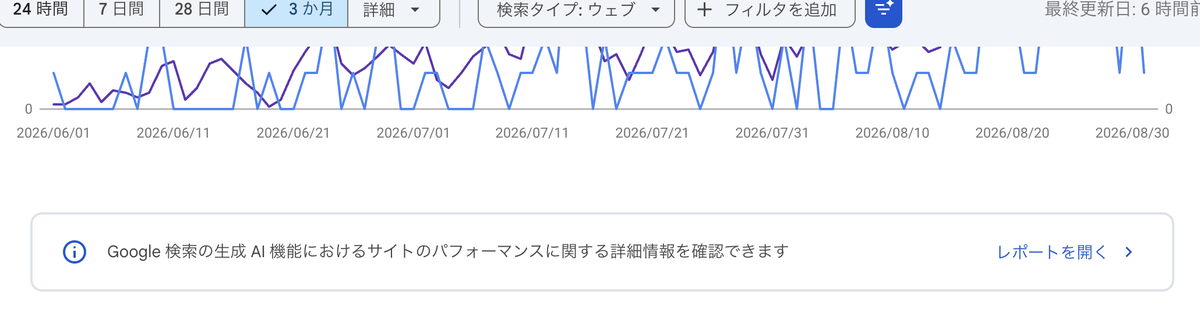
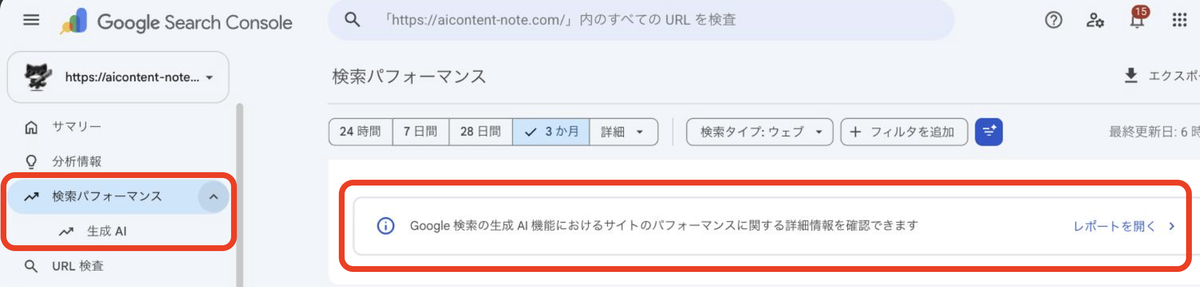
feat: 画像にキャプションを追加＋1枚目を撮り直し
1枚目：グラフを外し、左メニューの「生成 AI」とグラフ下のバナーの
両方が入る画面に撮り直した（入口が2つあることを1枚で示す）。赤枠はユーザーが付与。

2枚とも figcaption を追加。本文中に画像を置くと何の画面か伝わらないため。
md-to-wp.py で ![alt](url "caption") に対応し、キャプションなしは警告を出す。

不具合修正:
- media_id がスラッグ一致で引けなかった（同名再アップでファイル名とスラッグがずれる）
  → source_url の完全一致で引くように変更
- article-self-check.py が画像のalt/キャプションを重複・類似度・一文長で誤検知
  → 画像行を対象外にした。地の文の検知が生きていることは検証済み
- 字数からaltを除外（キャプションは読者が読むので残す）

diff --git a/operations/md-to-wp.py b/operations/md-to-wp.py
@@ -186,33 +186,48 @@ def post_id(slug):
 
 
 def media_id(url):
-    """公開APIで画像URLからメディアIDを引く（wp:imageブロックに必要）。"""
-    slug = url.rsplit("/", 1)[-1].rsplit(".", 1)[0]
-    api = "%s/wp-json/wp/v2/media?slug=%s&_fields=id,source_url" % (SITE, slug)
-    try:
-        with urllib.request.urlopen(api, timeout=10) as r:
-            data = json.load(r)
+    """公開APIで画像URLからメディアIDを引く（wp:imageブロックに必要）。
+
+    ⚠ スラッグはファイル名と一致しない。同名を再アップすると
+    ファイルは `img_0065_01-1.png`・スラッグは `img_0065_01-2` のようにずれる
+    （2026-09-04に実際にずれた）。**必ずsource_urlの完全一致で確定する。**
+    """
+    stem = url.rsplit("/", 1)[-1].rsplit(".", 1)[0]
+    for q in ("slug=%s" % stem, "search=%s" % stem.split("-")[0]):
+        api = "%s/wp-json/wp/v2/media?%s&per_page=100&_fields=id,source_url" % (SITE, q)
+        try:
+            with urllib.request.urlopen(api, timeout=10) as r:
+                data = json.load(r)
+        except Exception:
+            continue
         for m in data:
             if m.get("source_url") == url:
                 return m["id"]
-        return data[0]["id"] if data else None
-    except Exception:
-        return None
+    return None
 
 
-def image_block(alt, url):
-    """`![alt](url)` を SWELL/WPの画像ブロックにする（2026-09-03新設）。
+def image_block(alt, url, caption=None):
+    """`![alt](url "キャプション")` を SWELL/WPの画像ブロックにする（2026-09-03新設）。
     IDが引けない場合は0を入れず警告する。0のままだとWP側で画像が孤立する。
+    キャプションは2026-09-04追加。**画像は必ずキャプションを付ける**——
+    本文中に画像を置くと、何の画面なのかが読者に伝わらない（2026-09-04ユーザー指摘）。
     """
     mid = media_id(url)
     if mid is None:
         print("  ⚠ メディアIDを取得できなかった: %s（先にWPへアップする）" % url, file=sys.stderr)
         return None
+    if not caption:
+        print("  ⚠ 画像にキャプションがない: %s（何の画面か分からない）" % url, file=sys.stderr)
+    cap = (
+        '<figcaption class="wp-element-caption">%s</figcaption>' % inline(caption)
+        if caption
+        else ""
+    )
     return (
         '<!-- wp:image {"id":%d,"sizeSlug":"large","linkDestination":"none"} -->\n'
         '<figure class="wp-block-image size-large">'
-        '<img src="%s" alt="%s" class="wp-image-%d"/></figure>\n'
-        '<!-- /wp:image -->' % (mid, url, alt, mid)
+        '<img src="%s" alt="%s" class="wp-image-%d"/>%s</figure>\n'
+        '<!-- /wp:image -->' % (mid, url, alt, mid, cap)
     )
 
 
@@ -328,9 +343,11 @@ def convert(md):
             continue
 
         # 画像（![alt](url) 単独行 → wp:image）2026-09-03新設
-        mimg = re.match(r"^!\[([^\]]*)\]\((https?://[^)]+)\)$", c.strip())
+        mimg = re.match(
+            r'^!\[([^\]]*)\]\((https?://[^)\s]+)(?:\s+"([^"]*)")?\)$', c.strip()
+        )
         if mimg:
-            blk = image_block(mimg.group(1), mimg.group(2))
+            blk = image_block(mimg.group(1), mimg.group(2), mimg.group(3))
             if blk:
                 out.append(blk)
             continue

diff --git a/operations/article-self-check.py b/operations/article-self-check.py
@@ -470,7 +470,9 @@ def main(path):
 
     # --- 重複チェック（feedback_no_repetition.mdより統合） ---
     print("\n--- 重複チェック ---")
-    quotes = re.findall(r"「[^」]{2,20}」", body)
+    # 画像行のaltとキャプションは、本文と同じ画面名を指すので「」が重なる。除外する。
+    body_no_img = re.sub(r"^!\[[^\]]*\]\([^)]*\)$", "", body, flags=re.M)
+    quotes = re.findall(r"「[^」]{2,20}」", body_no_img)
     dup_quotes = {k: v for k, v in Counter(quotes).items() if v > 1}
     if not report("同じ引用フレーズの使い回しがない", not dup_quotes, f"{dup_quotes}"):
         failures += 1  # 2026-09-03修正：[NG]を表示しながら件数に加算していなかった
@@ -479,6 +481,10 @@ def main(path):
     for line in body.split("\n"):
         line = line.strip()
         if not line or line.startswith(("#", "---", "＼", "[", "【")):
+            continue
+        # 2026-09-04：画像行（![alt](url "caption")）は読者が読む文ではない。
+        # altとキャプションは同じ画面を指すので語が重なるのが正常。対象外にする。
+        if line.startswith("!["):
             continue
         if line in BOILERPLATE_EXACT:
             continue
@@ -542,8 +548,18 @@ def main(path):
     # という原則2違反を誘発していた。適正な分量は記事とKWによって異なるので
     # 上限は設けず、参考値の表示のみにする（判断は人が行う）。
     print("\n--- 文字数（参考値・NG判定はしない） ---")
-    char_count = len(re.sub(r"\s", "", body))
-    print(f"[INFO] 本文 {char_count}字（公開記事の中央値は約3,500字）")
+    # 2026-09-04：画像のalt（読者は読まない）を字数に含めない。
+    # キャプションは読者が読むので、画像行からキャプションだけ残して数える。
+    body_for_count = re.sub(
+        r'^!\[[^\]]*\]\([^)\s]+(?:\s+"([^"]*)")?\)$',
+        lambda m: m.group(1) or "",
+        body,
+        flags=re.M,
+    )
+    char_count = len(re.sub(r"\s", "", body_for_count))
+    n_img = len(re.findall(r"^!\[", body, flags=re.M))
+    note = f"／画像{n_img}枚（altは字数に含めない）" if n_img else ""
+    print(f"[INFO] 本文 {char_count}字（公開記事の中央値は約3,500字）{note}")
     print("   → 冗長なら削る。ただし数値を理由に内容を削らない（原則2）")
 
     print(f"\n=== 結果: NG {failures}件 ===")

diff --git a/rules/article-flow.md b/rules/article-flow.md
@@ -286,9 +286,25 @@ CCはMDのマーカー4個のまま全文差し替えを繰り返しており、
 4. `media-new.php?browser-uploader`でアップ →
    `document.querySelector('#async-upload').form.querySelector('#html-upload').click()`で送信
 5. `POST /wp/v2/media/<id> {alt_text}` でaltを入れる
-6. **MDに `![alt](画像URL)` を単独行で書く。**`md-to-wp.py`が`wp:image`ブロックに変換する
+6. **MDに `![alt](画像URL "キャプション")` を単独行で書く。**`md-to-wp.py`が`wp:image`ブロックに変換する
    （メディアIDは公開APIで自動取得。**先にWPへアップしていないとIDが引けない**）
-7. 反映後、画像ブロック数と`wp-image-<id>`を実測で確認する
+   - ⚠⚠ **キャプションは必須。**本文中に画像を置くと、何の画面なのかが読者に伝わらない
+     （2026-09-04ユーザー指摘：「いきなり文中に入ってるので、なんのスクショか分かるような見せ方がいる」）。
+     **キャプションは「どこを見るか」を書く**（例：`入口は2つ。左メニューの「生成 AI」と、グラフの下のバナー「レポートを開く」`）。
+     直前が手順の箇条書きなら、**手順の番号で指す**と流れが切れない（例：`手順2と3で見る場所。`）
+   - ⚠ キャプションを書かないと変換時に警告が出る
+   - ⚠ **スラッグはファイル名と一致しない。**同名を再アップすると
+     ファイルは`img_0065_01-1.png`・スラッグは`img_0065_01-2`にずれる。IDは`source_url`の完全一致で引く
+7. 反映後、画像ブロック数・`wp-image-<id>`・キャプションを実測で確認する
+
+**画像そのものの作り方（2026-09-04追加）**
+
+- ⚠ **意味のないデータを写さない。**no.65の1枚目は最初グラフが入っていて「読者が見るべき場所」が
+  ぼやけた。**グラフはスクロールで画面外に出してから撮る**
+- ⚠ **説明したい要素は1枚に全部入れる。**本文が「入口は2つ」と書いているなら、
+  左メニューとバナーの**両方**が入る状態を作ってから撮ってもらう
+  （左メニューは`検索パフォーマンス`の`∨`をクリックすると`生成 AI`が出る）
+- **赤枠などの注記はユーザーが入れる。**CCは画面を作って、どこを囲むかを伝える
 
 ⚠ **`【】`ブロックの太字は自動化しない。**ユーザーが記事ごとに選んでいる
 （実測：no.62は4個中3個・no.64は6個中3個・no.63は8個中0個）。

diff --git a/articles/ai-overview-check-method.md b/articles/ai-overview-check-method.md
@@ -34,7 +34,7 @@ tags: AI Overview,Search Console,AI検索,GEO,コンテンツ運用
 ・検索パフォーマンスのグラフの下にあるバナーの「レポートを開く」<br>
 ・左メニューの「検索パフォーマンス」を開いて出てくる「生成 AI」
 
-![Search Consoleの検索パフォーマンス画面で、グラフの下に生成AI機能のレポートへのバナーが表示されているスクリーンショット](https://aicontent-note.com/wp-content/uploads/2026/09/img_0065_01.png)
+![Search Consoleの検索パフォーマンス画面で、左メニューの「生成 AI」とグラフ下のバナー「レポートを開く」に赤枠が付いているスクリーンショット](https://aicontent-note.com/wp-content/uploads/2026/09/img_0065_01-1.png "入口は2つ。左メニューの「生成 AI」と、グラフの下のバナー「レポートを開く」")
 
 このサイトの3か月ぶんの表示回数は、次のようになっていました。
 
@@ -85,7 +85,7 @@ Search Consoleの操作に慣れていない場合は、別の記事も参考に
 ・「AI による概要」が出たら、文の末尾にあるサイト名のチップを見る<br>
 ・右のパネルの「すべて表示」を押すと、引用元が全部開く
 
-![GoogleのAIによる概要で、文の末尾のサイト名チップと右側の引用元パネルが開いているスクリーンショット](https://aicontent-note.com/wp-content/uploads/2026/09/img_0065_02.png)
+![GoogleのAIによる概要で、文の末尾のサイト名チップと右側の引用元パネルが開いているスクリーンショット](https://aicontent-note.com/wp-content/uploads/2026/09/img_0065_02.png "手順2と3で見る場所。文の末尾のチップと、右のパネルに並ぶ引用元")
 
 今回見た画面では、引用元が文ごとに付いていました。1つの回答に1組とは限らないので、パネルを開いて一覧で見るほうが早いです。
 
